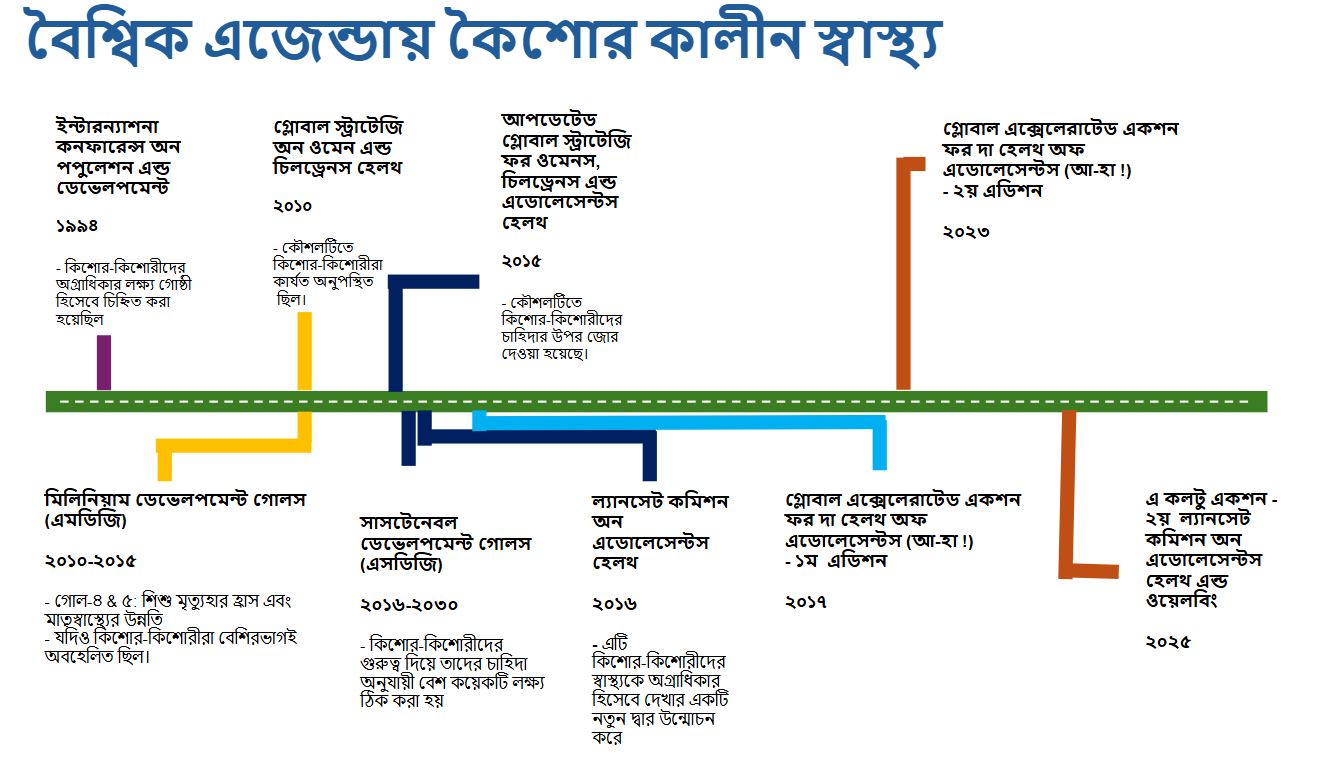
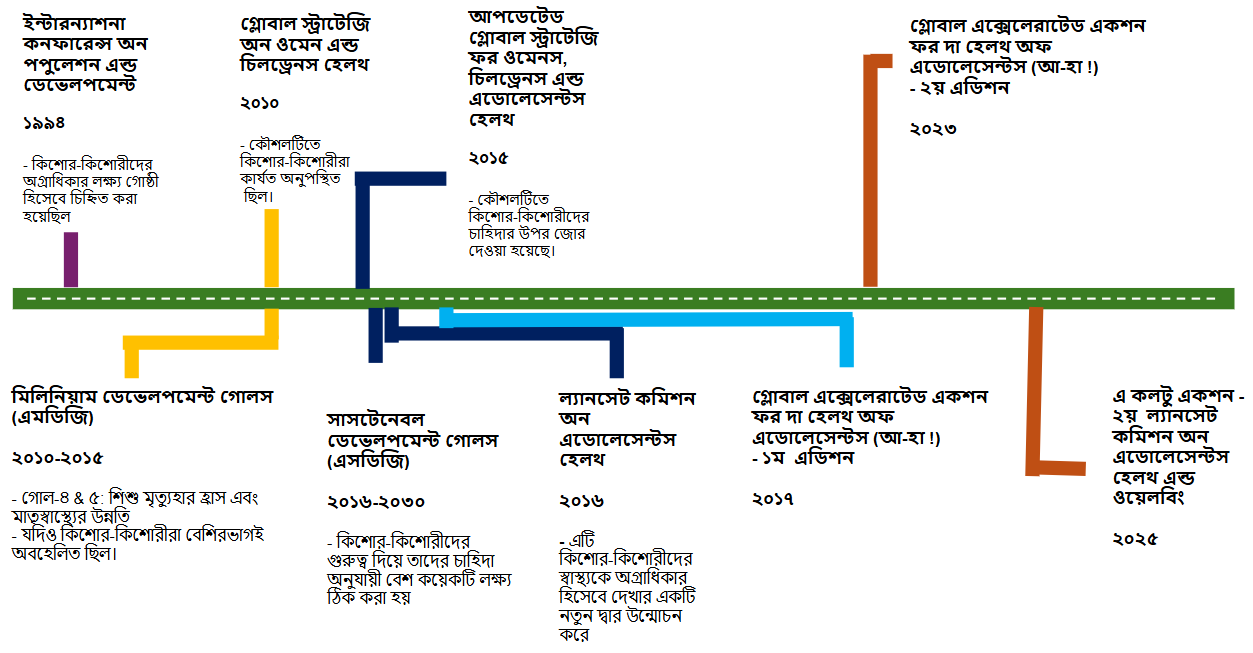
update

Changed region(s): [[0.0, 0.0, 0.996, 0.9801]]

diff --git a/js/data.js b/js/data.js
@@ -1485,15 +1485,16 @@ const coursesData = [
             },
             content: (function () {
               const factPoints = [
-  {
+   {
     text: yhLang(
-      "16% of married and 10% of unmarried adolescent girls are overweight or obese.",
-      "১৫-১৯ বছর বয়সী বিবাহিত কিশোরীদের মধ্যে প্রজনন হার প্রতি হাজারে ৯২।"
+      "Bangladesh is among the top 10 countries with the highest rates of child marriage in the world.",
+      "১৫-১৯ বছর বয়সী চারজনের মধ্যে একজন বিবাহিত কিশোরী (২৪%) গর্ভধারন করে, এবং প্রায় পাঁচজনের মধ্যে একজন কিশোরী (১৮%) জীবিত সন্তান জন্মদান করে।"
     ),
-    icon: "fa-weight-scale",
-    color: "#ec4899",
-    bgColor: "rgba(236, 72, 153, 0.12)",
-  },
+    icon: "fa-children",
+    color: "#f97316",
+    bgColor: "rgba(249, 115, 22, 0.12)",
+  },              
+ 
   {
     text: yhLang(
       "36% of married adolescent girls and 32% of unmarried adolescent girls are stunted; 4% of married and 8% of unmarried girls are underweight.",
@@ -1503,14 +1504,14 @@ const coursesData = [
     color: "#f59e0b",
     bgColor: "rgba(245, 158, 11, 0.12)",
   },              
-  {
+   {
     text: yhLang(
-      "Bangladesh is among the top 10 countries with the highest rates of child marriage in the world.",
-      "১৫-১৯ বছর বয়সী চারজনের মধ্যে একজন বিবাহিত কিশোরী (২৪%) গর্ভধারন করে, এবং প্রায় পাঁচজনের মধ্যে একজন কিশোরী (১৮%) জীবিত সন্তান জন্মদান করে।"
+      "16% of married and 10% of unmarried adolescent girls are overweight or obese.",
+      "১৫-১৯ বছর বয়সী বিবাহিত কিশোরীদের মধ্যে প্রজনন হার প্রতি হাজারে ৯২।"
     ),
-    icon: "fa-children",
-    color: "#f97316",
-    bgColor: "rgba(249, 115, 22, 0.12)",
+    icon: "fa-weight-scale",
+    color: "#ec4899",
+    bgColor: "rgba(236, 72, 153, 0.12)",
   },
   {
     text: yhLang(
@@ -1800,7 +1801,7 @@ const coursesData = [
                 <h2 class="slide-title gradient-text mb-2" data-aos="fade-up">${yhLang("Determinants for adolescent health and well-being", "কৈশোরকালীন স্বাস্থ্য এবং সুস্থতার জন্য নির্ধারক সমূহ ")}</h2>
                 <section class="p-1 p-md-1 rounded-4" style="background: linear-gradient(135deg, rgba(99,102,241,0.10), rgba(16,185,129,0.10)); border: 1px solid rgba(0,0,0,0.06);" aria-labelledby="aa-ha-title">
                   <div class="row g-1 align-items-center">
-                    <div class="col-md-6" data-aos="fade-left" data-aos-delay="80">
+                    <div class="col-md-7" data-aos="fade-left" data-aos-delay="80">
                       <div class="row g-1">
                         ${determinantCards
                           .map(
@@ -1818,7 +1819,7 @@ const coursesData = [
                           .join("")}
                       </div>
                     </div>
-                    <div class="col-md-6" data-aos="fade-right" data-aos-delay="60">
+                    <div class="col-md-5" data-aos="fade-right" data-aos-delay="60">
                       <figure class="image-card-m2l7"><img src="img/determinants/determinants_b.png" alt="AA-HA! guidance" class="img-zoom w-100 h-100"></figure>
                     </div>
                   </div>
@@ -2142,8 +2143,8 @@ const coursesData = [
                   .join("")}</div>
                    <!-- Bottom row: 4 images -->
                     <div class="sdc_main">
-                      <figure class="glass-card p-1 mb-0 text-center">
-                          <img src="img/sdc/sdc.png" alt="SDC" class="img-fluid w-100 rounded shadow-sm img-zoom" />
+                      <figure class="glass-card sdc_img mb-0 text-center">
+                          <img src="img/sdc/sdc.png" alt="SDC" class="rounded shadow-sm img-zoom" />
                         </figure>
                     </div>
               </div>`,
@@ -2302,9 +2303,9 @@ const coursesData = [
 
               return `
               <div class="lesson-slide">
-                <h2 class="slide-title gradient-text d-none" data-aos="fade-up">${yhLang("Adolescent Health in the Global Agenda", "বৈশ্বিক এজেন্ডায় কৈশোর স্বাস্থ্য")}</h2>
-                <figure class="glass-card agenda text-center">
-                          <img src="img/agenda/agenda-b.png" alt="agenda"  class="img-fluid w-100 rounded shadow-sm img-zoom" />
+                <h2 class="slide-title gradient-text mb-2" data-aos="fade-up">${yhLang("Adolescent Health in the Global Agenda", "বৈশ্বিক এজেন্ডায় কৈশোর স্বাস্থ্য")}</h2>
+                <figure class="glass-card agenda text-center h-100 p-3">
+                          <img src="img/agenda/agenda-b.png" alt="agenda"  class="h-100 rounded shadow-sm img-zoom" />
                 </figure>
               </div>`;
             })(),
@@ -2453,7 +2454,7 @@ const coursesData = [
               ];
 
               return `
-              <div class="lesson-slide d-flex align-items-center justify-content-center gap-4 flex-column flex-lg-row">
+              <div class="lesson-slide d-flex align-items-center justify-content-center gap-1 flex-column flex-lg-row">
                 <div class="">
                    <div class="row g-4 ">
                         <div class="col-md-6">

diff --git a/css/m11.css b/css/m11.css
@@ -11892,15 +11892,9 @@ figure.image-card {
   }
 }
 .agenda img {
-  max-height: 680px;
+  max-width: 80%;
 }
-.m17l3-image {
-  max-height: 360px;
-  object-fit: fill;
-}
-.bg-pyramid img{
-   height: 600px;
-}
+
 /* Extra Small Mobile - 479px and below */
 @media (max-width: 479px) {
   .m2l7-slide {

diff --git a/css/styles.css b/css/styles.css
@@ -16613,6 +16613,9 @@ inset 0 1px 0 rgba(255, 255, 255, 0.4);
 .sdc_main .modern-card {
   padding: 1.25rem;
 }
+.sdc_img img {
+  width: 80%;
+}
 .sdc_main .modern-card figure {
   margin-bottom: 0 !important;
 
